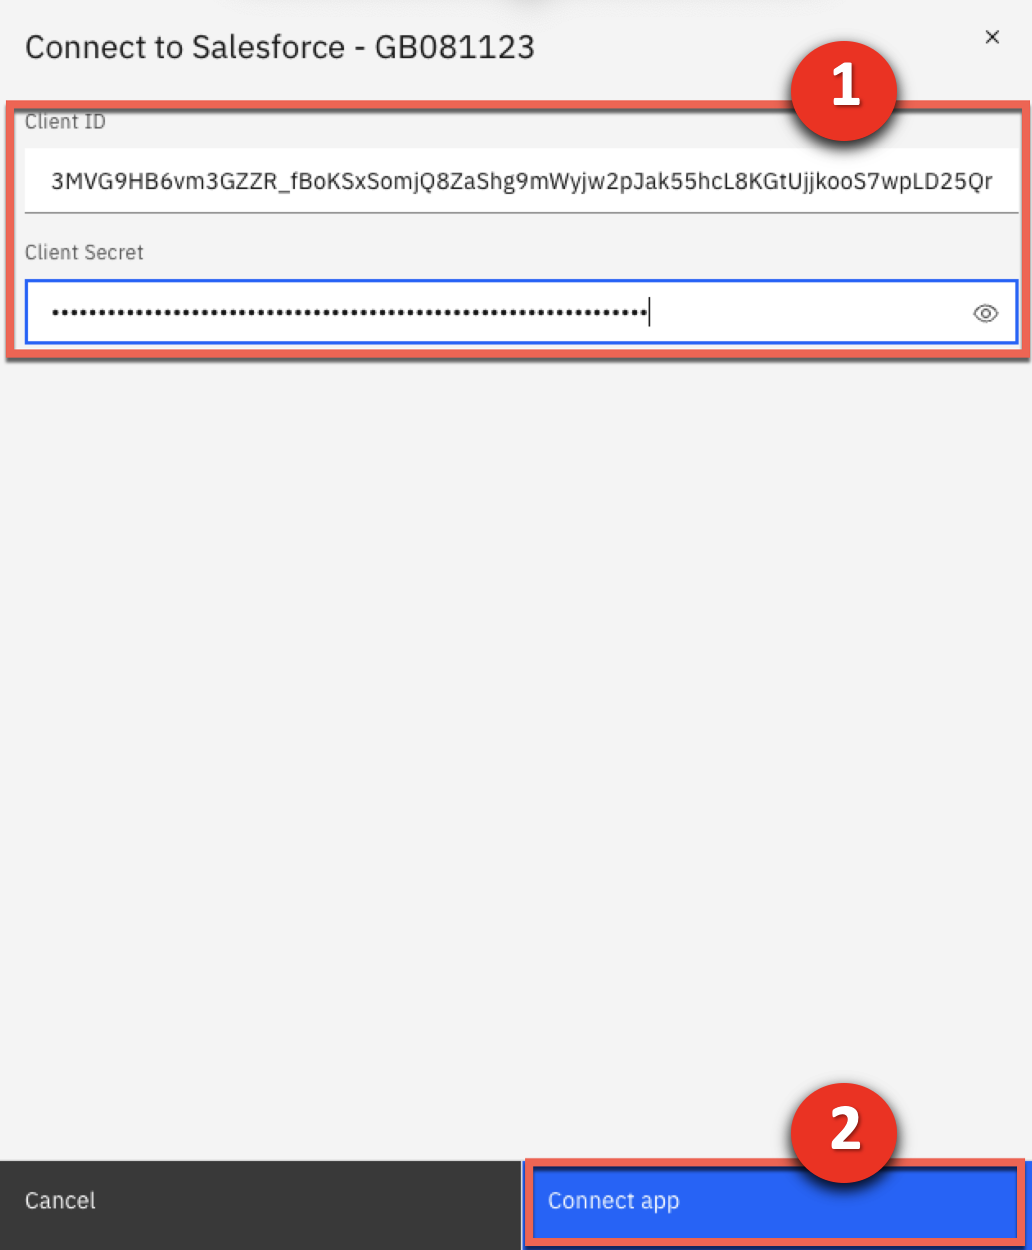
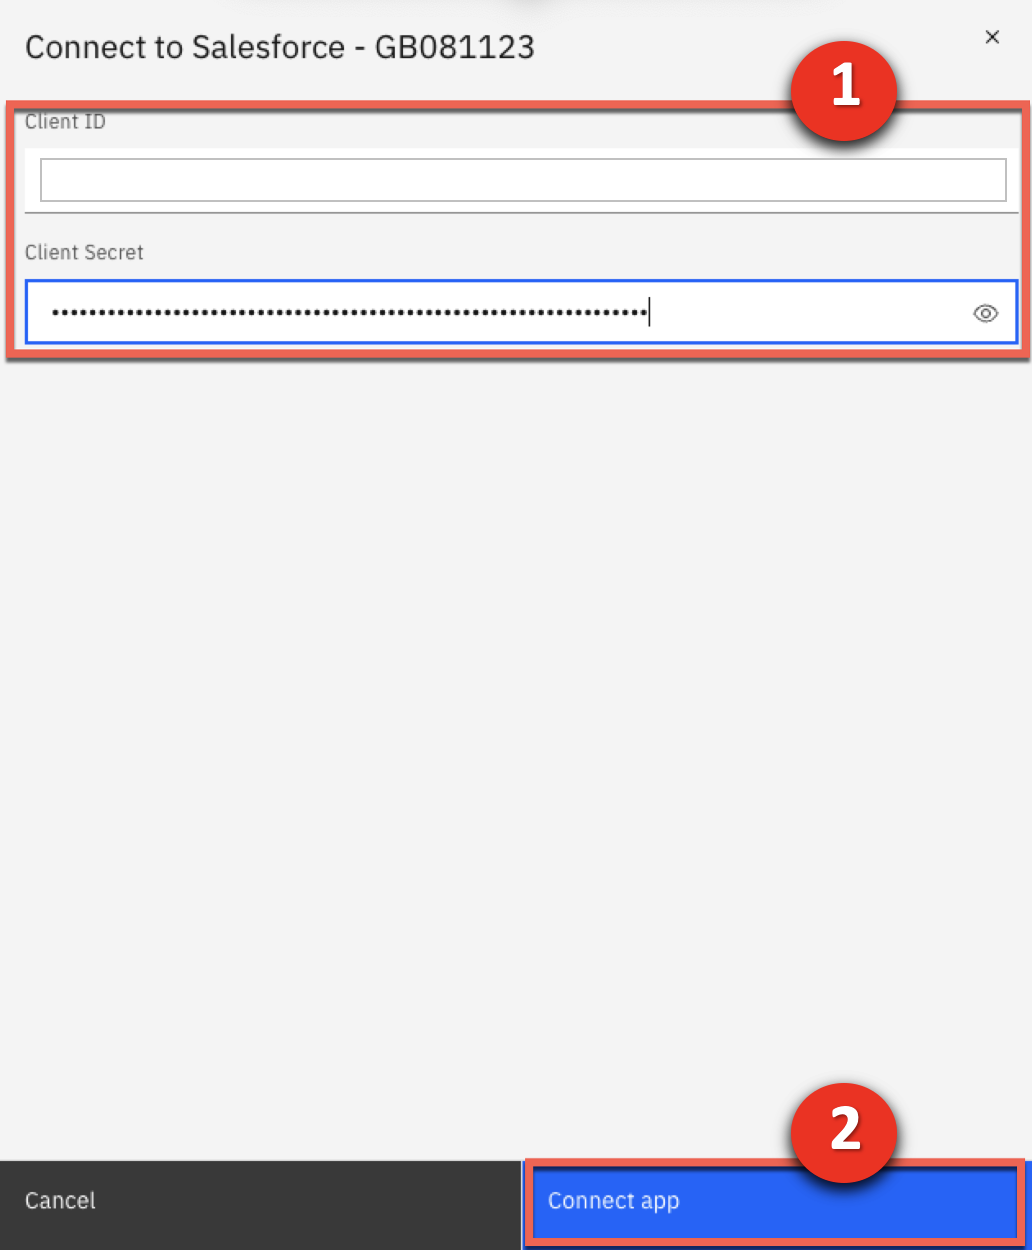
Removing shared credentials from public pages

Changed region(s): [[0.031, 0.1248, 0.9612, 0.156]]

diff --git a/docs/index.md b/docs/index.md
@@ -16,5 +16,6 @@ businessautomation-button-class: header-button-selected
 | **[Process and task mining](https://ibm.github.io/platinum-demos-dl/300-business-automation-process-and-task-mining/demo-preparation)** | Analyze process and task data to identify areas for improvement |
 | **[Enhancing business automation with integration](https://ibm.github.io/platinum-demos-dl/300-enhancing-ba-with-integration/demo-preparation)** | This demo shows how the IBM Cloud Pak for Business Automation and the IBM Cloud Pak for Integration can be combined to streamline a customer account opening process. To illustrate this combination, application integration is added to an existing workflow implementation. |
 | **[Managing and securing enterprise content at scale](https://ibm.github.io/platinum-demos-dl/300-business-automation-managing-and-securing-enterprise-content-at-scale/demo-preparation)** | Securely organize, manage and collaborate on enterprise content |
-| **[Boosting sales productivity with watsonx Orchestrate](https://ibm.github.io/platinum-demos-dl/100-digital-labor-boosting-sales-productivity-with-watsonx-orchestrate/demo-preparation)** | Use digital assistants to automate tasks |
+| **[100 Boosting sales productivity with watsonx Orchestrate](https://ibm.github.io/platinum-demos-dl/100-digital-labor-boosting-sales-productivity-with-watsonx-orchestrate/demo-preparation)** | Use digital assistants to automate tasks |
+| **[300 Boosting sales productivity with watsonx Orchestrate](https://ibm.github.io/platinum-demos-dl/300-digital-labor-boosting-sales-productivity-with-watsonx-orchestrate/demo-preparation)** | Use digital assistants to automate tasks |
 | **[Leveraging ODM decisions in watsonx Orchestrate](https://ibm.github.io/platinum-demos-dl/300-digital-labor-leveraging-odm-decisions-in-watsonx-orchestrate/demo-preparation)** | Leverage Operational Decision Manager services in watsonx Orchestrate |

diff --git a/docs/LocalhostIndex.md b/docs/LocalhostIndex.md
@@ -16,5 +16,6 @@ businessautomation-button-class: header-button-selected
 | **[Process and task mining](http://localhost:4000/300-business-automation-process-and-task-mining/demo-preparation)** | Analyze process and task data to identify areas for improvement |
 | **[Enhancing business automation with integration](http://localhost:4000/300-enhancing-ba-with-integration/demo-preparation)** | This demo shows how the IBM Cloud Pak for Business Automation and the IBM Cloud Pak for Integration can be combined to streamline a customer account opening process. To illustrate this combination, application integration is added to an existing workflow implementation. |
 | **[Managing and securing enterprise content at scale](http://localhost:4000/300-business-automation-managing-and-securing-enterprise-content-at-scale/demo-preparation)** | Securely organize, manage and collaborate on enterprise content |
-| **[Boosting sales productivity with watsonx Orchestrate](http://localhost:4000/100-digital-labor-boosting-sales-productivity-with-watsonx-orchestrate/demo-preparation)** | Use digital assistants to automate tasks |
+| **[100 Boosting sales productivity with watsonx Orchestrate](http://localhost:4000/100-digital-labor-boosting-sales-productivity-with-watsonx-orchestrate/demo-preparation)** | Use digital assistants to automate tasks |
+| **[300 Boosting sales productivity with watsonx Orchestrate](http://localhost:4000/300-digital-labor-boosting-sales-productivity-with-watsonx-orchestrate/demo-preparation)** | Use digital assistants to automate tasks |
 | **[Leveraging ODM decisions in watsonx Orchestrate](http://localhost:4000/300-digital-labor-leveraging-odm-decisions-in-watsonx-orchestrate/demo-preparation)** | Leverage Operational Decision Manager services in watsonx Orchestrate |

diff --git a/docs/300-digital-labor-boosting-sales-productivity-with-watsonx-orchestrate/demo-script.md b/docs/300-digital-labor-boosting-sales-productivity-with-watsonx-orchestrate/demo-script.md
@@ -174,7 +174,7 @@ Let's get started.
 | **Action** &nbsp; 3.1.10 | Click **Add skills from the catalog**. <br/> <img src="images/3-1-10.png" width="800" /> |
 | **Action** &nbsp; 3.1.11 | Use your unique ID again to filter the list of skills (1). Click the card (2). <br/> <img src="images/3-1-11.jpg" width="800" /> |
 | **Action** &nbsp; 3.1.12 | Enter your unique ID again, if required (1). Click **Add skill +** (2). Click **Connect app** (3). <br/> <img src="images/3-1-12.jpg" width="800" /> |
-| **Action** &nbsp; 3.1.13 | Provide the **Client ID** and **Client Secret** (1). Click **Connect app** (2).<br/><br/> Use the following credentials: <br/> • **Client ID**: 3MVG9HB6vm3GZZR_fBoKSxSomjQ8ZaShg9mWyjw2pJak55hcL8KGtUjjkooS7wpLD25QraIBxop4ThrTPK237 <br/> • **Client Secret**: 34CB8CCE1E4495C0CAE6A921A5FC7D17CC6CE614152175D20F5B00F8B250626C <br/><br/> <img src="images/3-1-13.png" width="400" /> |
+| **Action** &nbsp; 3.1.13 | Provide the **Client ID** and **Client Secret** (1). Click **Connect app** (2).<br/><br/> Use your Salesforce provided credentials: • **Client ID** - **Client Secret** <br/> <inline-notification text="Request your Salesforce credentials contacting the #ba-techlcd-support slack channel"></inline-notification> <img src="images/3-1-13.png" width="400" /> |
 | **Narration** | Now that the skill is published and added to our personal skills, we can test it out. |
 | **Action** &nbsp; 3.1.14 | Return to the chat screen and run your new personal skill by clicking on the tile. <br/> <img src="images/3-1-14.jpg" width="800" /> |
 | **Narration** | We've successfully imported an OpenAPI custom skill file. When we run the new skill, we see the results of the Salesforce search displayed in a table. |

diff --git a/docs/300-digital-labor-boosting-sales-productivity-with-watsonx-orchestrate/demo-preparation.md b/docs/300-digital-labor-boosting-sales-productivity-with-watsonx-orchestrate/demo-preparation.md
@@ -67,7 +67,7 @@ Once you have received your onboarding email, use your IBM ID to log in <a href=
 
 5. Click **Add skill +** (1). Click **Connect app** (2). <br/> <img src="images/Prep-1-5.jpg" width="800" /><br/>
 
-6. Use the following credentials: <br/><br/> • **Client ID** (1): 3MVG9HB6vm3GZZR_fBoKSxSomjQ8ZaShg9mWyjw2pJak55hcL8KGtUjjkooS7wpLD25QraIBxop4ThrTPK237 <br/> • **Client Secret** (2): 34CB8CCE1E4495C0CAE6A921A5FC7D17CC6CE614152175D20F5B00F8B250626C <br/><br/> Click **Connect app** (3). <br/> <img src="images/Prep-1-6.jpg" width="800" /><br/>
+6. Use the your salesforce credentials:  • **Client ID** (1)• **Client Secret** (2) Click **Connect app** (3). <br/> <inline-notification text="Request your Salesforce credentials contacting the #ba-techlcd-support slack channel"></inline-notification><img src="images/Prep-1-6.jpg" width="800" /><br/>
 
 7. Click the **menu slider** icon. <br/> <img src="images/Prep-1-7.jpg" width="500" /><br/>
 
